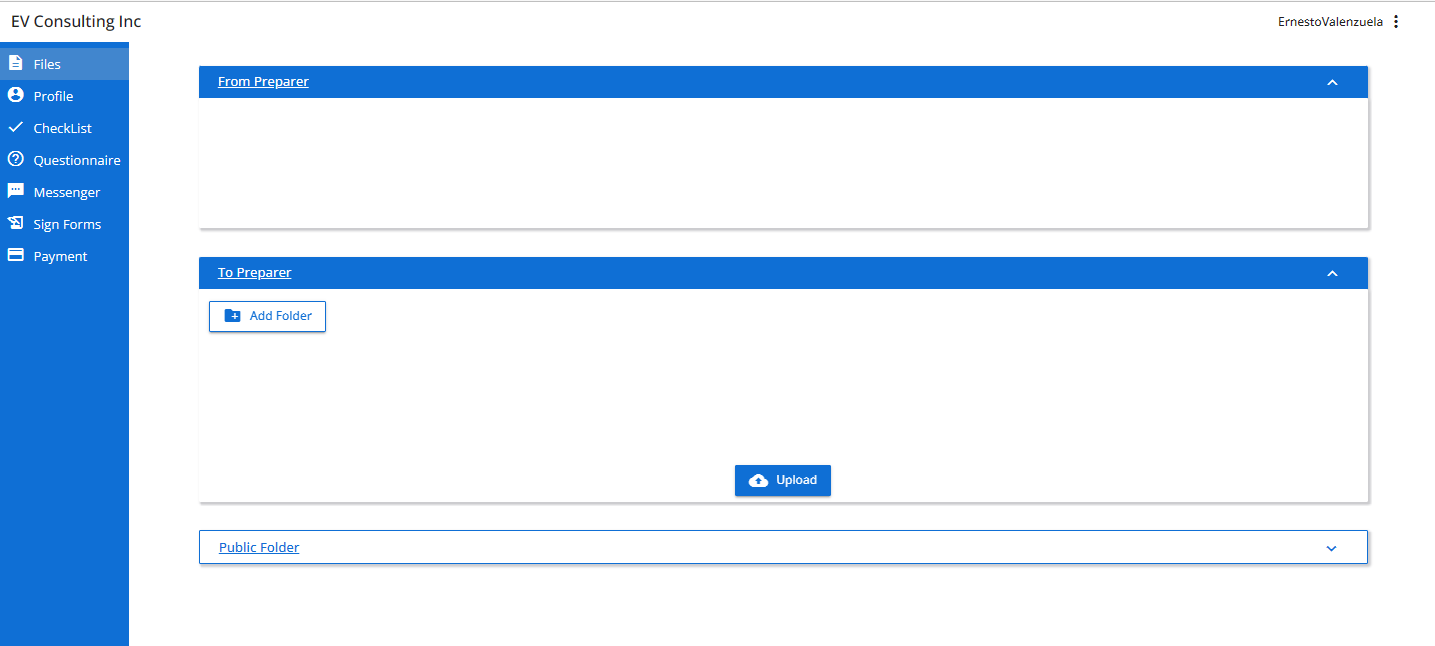
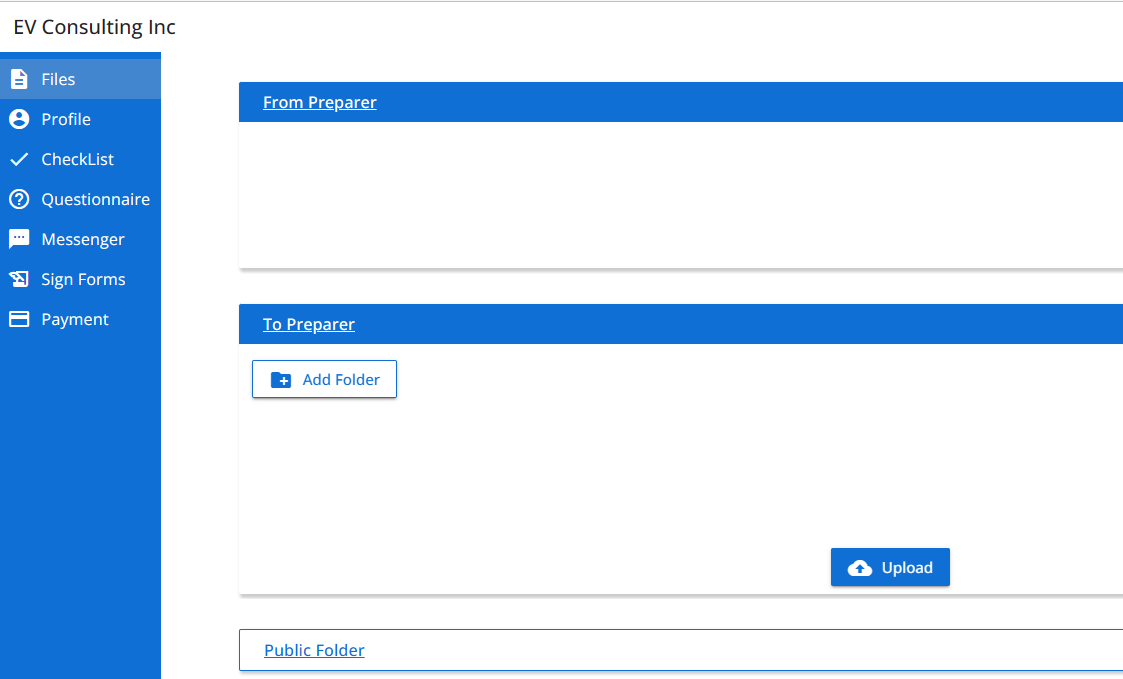
portal 7

Changed region(s): [[0.0, 0.0, 1.0, 1.0], [0.2182, 0.9288, 1.0, 1.0], [0.8727, 0.031, 0.9662, 0.0619]]

diff --git a/index.html b/index.html
@@ -36,7 +36,7 @@
 									<a class="nav-link" href="#pricing-container">Free Taxes Online</a>
 							</li>
 							<li class="nav-item">
-									<a class="nav-link" href="#taxes2go">Taxes2Go</a>
+									<a class="nav-link" href="#taxes2go">App</a>
 							</li>
 							<li class="nav-item">
 									<a class="nav-link" href="#customer-portal">Customer Portal</a>
@@ -267,7 +267,7 @@
 	<section id="taxes2go">
 		<div class="container-fluid">
 			<div class="pricing-header pb-md-4 mx-auto text-left">
-				<h1 style="color: #000">Taxes to Go</h1>
+				<h1 style="color: #000">Phone App</h1>
 				<p class="lead">
 					It is a <strong>"secured"</strong> link to a mobile app in the cloud used to download the EVCI custom-branded app either from the Google Play Store or Apple App Store, onto the taxpayer phones.  EVCI's brand name appears at the top of the app. <strong>Click the link </strong> below if you would like to sign up for our waiting list, or start your tax return.   
 				</p>
@@ -305,7 +305,7 @@
 			<div class="row">
 				<div class="col-lg-6 ">
 					<!-- <img src="img/cloud.png" class="img-fluid cloud"  alt="cloud"> -->
-					<img src="img/EVCI-Portal2.png" height="500" class="img-fluid" alt="portal">
+					<img src="img/EVCI-Portal2.png" class="img-fluid" alt="portal">
 				</div>
 				<div class="col-lg-6 pricing-header pb-md-4 mx-auto text-left">
 					<h1>Customer Portal</h1>
@@ -368,7 +368,7 @@ During peak tax season (March-April), the best way to contact us is to use the l
 					<ul class="nav col-md-3 justify-content-end">
 						<li class="nav-item"><a href="#" class="nav-link px-2 text-muted">Home</a></li>
 						<li class="nav-item"><a href="#pricing-container" class="nav-link px-2 text-muted">Free Taxes Online</a></li>
-						<li class="nav-item"><a href="#taxes2go" class="nav-link px-2 text-muted">Taxes2Go</a></li>
+						<li class="nav-item"><a href="#taxes2go" class="nav-link px-2 text-muted">App</a></li>
 						<!-- <li class="nav-item"><a href="#customer-portal" class="nav-link px-2 text-muted">Customer Portal</a></li> -->
 						<li class="nav-item"><a href="#about" class="nav-link px-2 text-muted">About</a></li>
 					</ul> 
